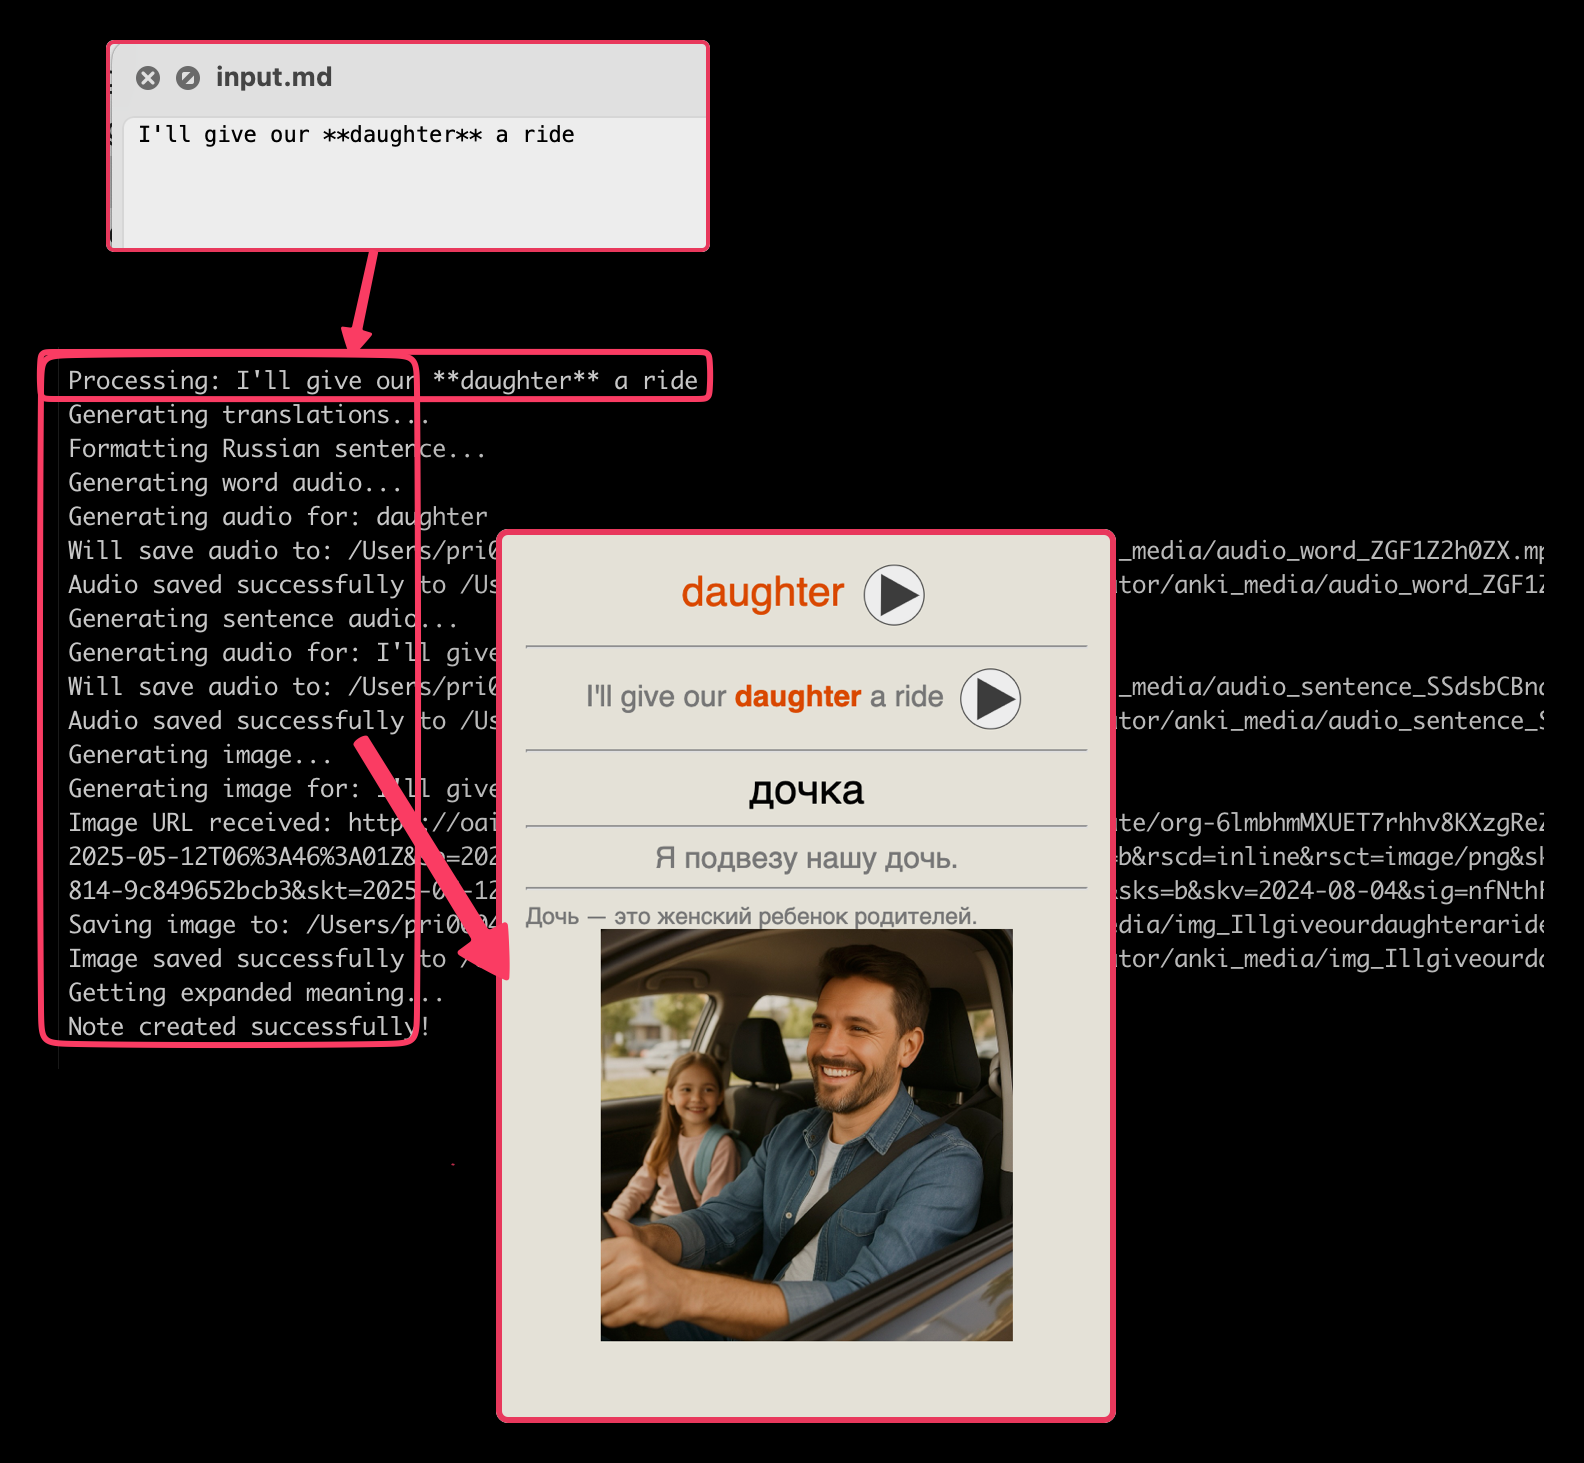
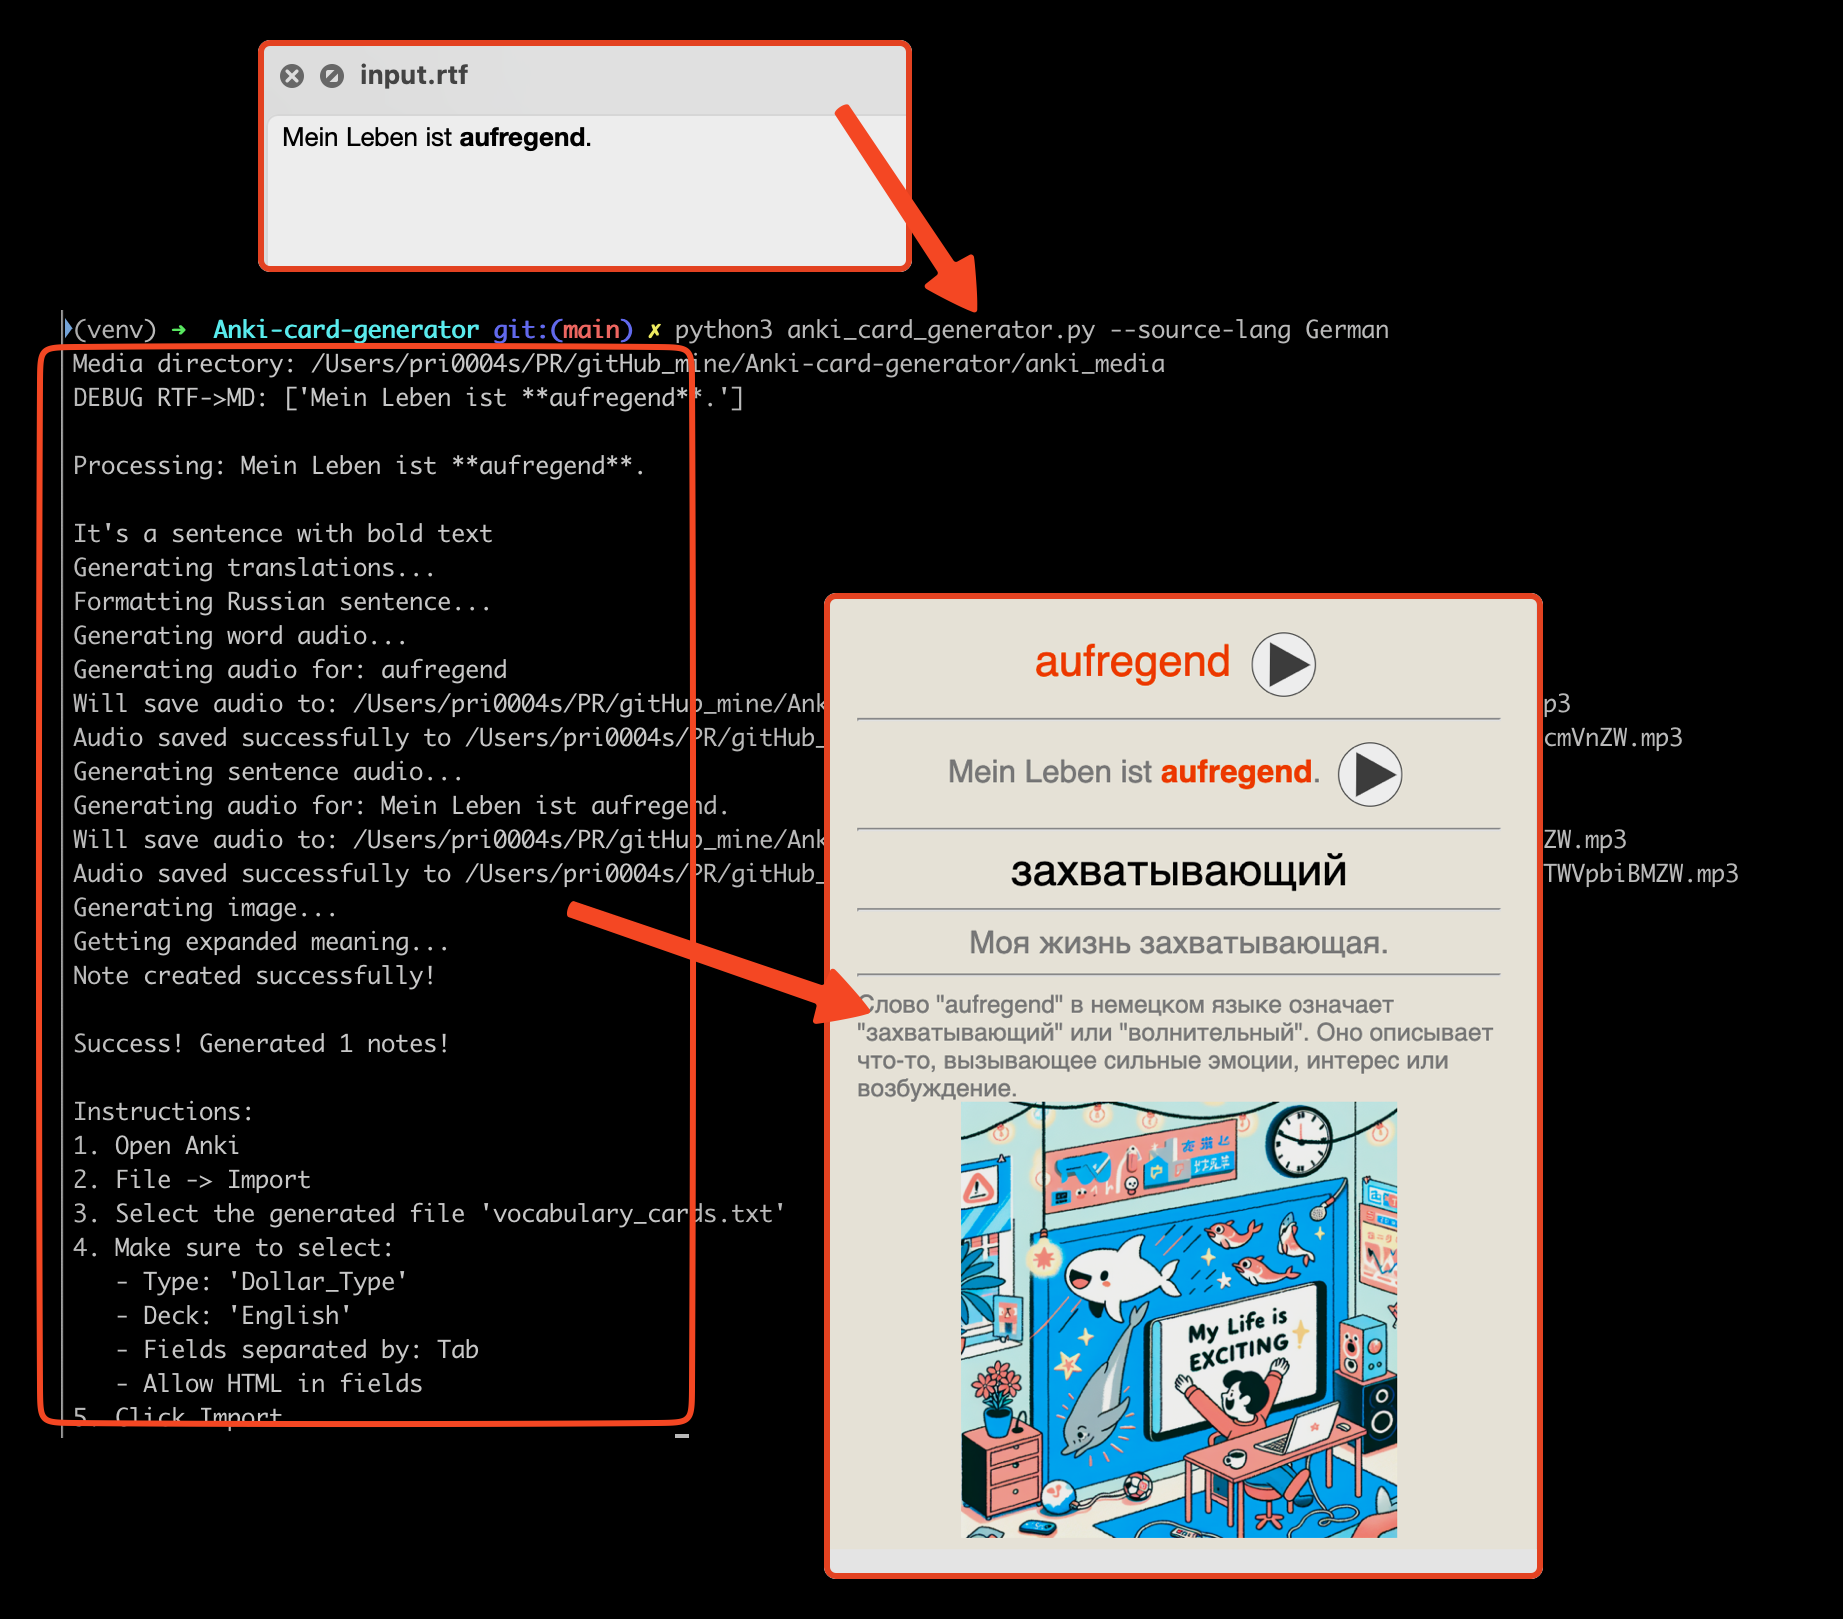
Enhance Anki Card Generator to support RTF input
1. Updated the README to reflect the capability of handling RTF input files, replacing markdown references with RTF.
2. Modified `anki_card_generator.py` to include functionality for extracting bold text from RTF files using pypandoc and BeautifulSoup, and adjusted the bold text pattern for parsing markdown and RTF.
3. Replaced italics with bold text in the script for processing highlighted words/phrases and translating them.
4. Migrated from `input.md` to `input.rtf` for input handling, removing the former and introducing a sample RTF content.
5. Updated `requirements.txt` to include new dependencies needed for RTF processing.

diff --git a/anki_card_generator.py b/anki_card_generator.py
@@ -7,6 +7,9 @@ import random
 import argparse
 from tqdm import tqdm  # For progress indication
 import requests
+from striprtf.striprtf import rtf_to_text  # Add RTF support
+import pypandoc
+from bs4 import BeautifulSoup
 
 class AnkiCardGenerator:
     def __init__(self, api_key, source_lang="English", target_lang="Russian"):
@@ -28,8 +31,9 @@ class AnkiCardGenerator:
         self.notes = []
         
     def extract_italic_text(self, line):
-        italic_pattern = r'\*(.*?)\*'
-        matches = re.findall(italic_pattern, line)
+        # Change pattern to look for bold text instead of italic
+        bold_pattern = r'\*\*(.*?)\*\*'
+        matches = re.findall(bold_pattern, line)
         return matches if matches else [line.strip()]
     
     def translate_text(self, text, is_sentence=False):
@@ -131,12 +135,12 @@ class AnkiCardGenerator:
     def process_line(self, line):
         print("\nProcessing:", line.strip())
         
-        italic_texts = self.extract_italic_text(line)
+        bold_texts = self.extract_italic_text(line)
 
-        # If it's just a single word/phrase in italic
-        if len(italic_texts) == 1 and italic_texts[0] == line.strip().replace('*', ''):
-            foreign = italic_texts[0]
-            russian = self.translate_text(foreign)
+        # If only one word/phrase is in bold
+        if len(bold_texts) == 1 and bold_texts[0] == line.strip().replace('**', ''):
+            foreign = bold_texts[0]
+            russian = self.translate_text(foreign)  # Translate only the highlighted word
             
             # Generate audio for foreign text
             print("Generating word audio...")
@@ -160,7 +164,7 @@ class AnkiCardGenerator:
                     foreign,                 # Foreign
                     "",                      # Foreign Sentence with highlighting
                     russian,                 # Russian
-                    "",                      # Russian Sentence with italic
+                    "",                      # Russian Sentence with bold
                     audio,                   # Audio
                     "",                      # Audio Sentence
                     expanded_meaning,        # Expanded Meaning
@@ -175,8 +179,8 @@ class AnkiCardGenerator:
             print("Note created successfully!")
             return
             
-        # If no italic text in the sentence
-        if not italic_texts:
+        # If there is no bold text in the sentence
+        if not bold_texts:
             foreign = line.strip()
             russian = self.translate_text(foreign, is_sentence=True)
             
@@ -196,7 +200,7 @@ class AnkiCardGenerator:
                     foreign,                 # Foreign
                     "",                      # Foreign Sentence with highlighting
                     russian,                 # Russian
-                    "",                      # Russian Sentence with italic
+                    "",                      # Russian Sentence with bold
                     audio,                   # Audio
                     "",                      # Audio Sentence
                     "",                      # Expanded Meaning
@@ -211,38 +215,41 @@ class AnkiCardGenerator:
             print("Note created successfully!")
             return
             
-        print("\nIt's a sentence with italic text")
+        print("\nIt's a sentence with bold text")
 
-        # Original logic for sentences with italic text
-        foreign = italic_texts[0] if italic_texts else line.strip()
+        # Original logic for sentences with bold text
+        foreign = bold_texts[0] if bold_texts else line.strip()
         
-        # Replace markdown with HTML matching the sample format
+        # Replace markdown with HTML for highlighting
         foreign_sentence = line.strip()
-        for italic_text in italic_texts:
+        for bold_text in bold_texts:
             foreign_sentence = foreign_sentence.replace(
-                f"*{italic_text}*",
-                f'<span style="color: rgb(234, 78, 0);"><b>{italic_text}</b></span>'
+                f"**{bold_text}**",
+                f'<span style="color: rgb(234, 78, 0);"><b>{bold_text}</b></span>'
             )
         
-        # Generate translations
+        # Translate only the highlighted word/phrase
         print("Generating translations...")
         russian = self.translate_text(foreign)
         
-        # Format Russian sentence with italic text for translations
+        # Translate the whole sentence
         print("Formatting Russian sentence...")
-        russian_sentence = self.translate_text(line.strip().replace('*', ''), is_sentence=True)
-        if italic_texts and russian:
-            russian_sentence = russian_sentence.replace(russian, f'<b>{russian}</b>')
+        russian_sentence_full = self.translate_text(line.strip().replace('**', ''), is_sentence=True)
+        # Highlight the translation of the bold word in the translated sentence
+        if russian and russian in russian_sentence_full:
+            russian_sentence = russian_sentence_full.replace(russian, f'<b>{russian}</b>')
+        else:
+            russian_sentence = russian_sentence_full
         
         # Generate audio files
         print("Generating word audio...")
         audio = self.generate_audio(foreign)
         print("Generating sentence audio...")
-        audio_sentence = self.generate_audio(line.strip().replace('*', ''), is_sentence=True)
+        audio_sentence = self.generate_audio(line.strip().replace('**', ''), is_sentence=True)
         
         # Generate image
         print("Generating image...")
-        image = self.generate_image(line.strip().replace('*', ''))
+        image = self.generate_image(line.strip().replace('**', ''))
         
         # Get expanded meaning
         print("Getting expanded meaning...")
@@ -257,8 +264,8 @@ class AnkiCardGenerator:
             'fields': [
                 foreign,                 # Foreign
                 foreign_sentence,        # Foreign Sentence with highlighting
-                russian,                 # Russian
-                russian_sentence,        # Russian Sentence with italic
+                russian,                 # Russian (only highlighted word)
+                russian_sentence,        # Russian Sentence (whole sentence, highlighted word in bold)
                 audio,                   # Audio
                 audio_sentence,          # Audio Sentence
                 expanded_meaning,        # Expanded Meaning
@@ -272,10 +279,39 @@ class AnkiCardGenerator:
         self.notes.append(note)
         print("Note created successfully!")
 
+    def extract_bold_from_rtf(self, rtf_content):
+        html = pypandoc.convert_text(rtf_content, 'html', format='rtf')
+        soup = BeautifulSoup(html, 'html.parser')
+        lines = []
+        for p in soup.find_all(['p', 'div']):
+            line = ''
+            for elem in p.children:
+                if getattr(elem, 'name', None) in ['b', 'strong']:
+                    line += f"**{elem.get_text()}**"
+                elif getattr(elem, 'name', None) == 'span' and elem.has_attr('style') and 'bold' in elem['style']:
+                    line += f"**{elem.get_text()}**"
+                elif elem.name is None:
+                    line += str(elem)
+            if line.strip():
+                lines.append(line.strip())
+        print("DEBUG RTF->MD:", lines)
+        return '\n'.join(lines)
+
     def generate_cards(self, input_file):
         # Process all lines
         with open(input_file, 'r', encoding='utf-8') as f:
-            for line in f:
+            content = f.read()
+            
+            # Check if file is RTF
+            if input_file.lower().endswith('.rtf'):
+                try:
+                    content = self.extract_bold_from_rtf(content)
+                except Exception as e:
+                    print(f"Error parsing RTF: {e}")
+                    content = ''
+            
+            # Split content into lines and process
+            for line in content.splitlines():
                 if line.strip():
                     self.process_line(line)
         
@@ -303,8 +339,8 @@ if __name__ == "__main__":
     parser.add_argument('--api-key', '-k', 
                       help='OpenAI API key (optional, can use OPENAI_API_KEY environment variable)')
     parser.add_argument('--input', '-i',
-                      default='input.md',
-                      help='Input file path (default: input.md)')
+                      default='input.rtf',
+                      help='Input file path (default: input.rtf). Supports .md and .rtf files')
     parser.add_argument('--generate-media', '-m',
                       action='store_true',
                       default=False,

diff --git a/README.md b/README.md
@@ -1,6 +1,6 @@
 # Anki Card Generator
 
-A script for automatically generating Anki cards from a markdown file with bold-highlighted words/phrases. Cards are added to your existing "English" deck using "Dollar_Type" note type.
+A script for automatically generating Anki cards from a rich-text or markdown file with bold-highlighted words/phrases. Cards are added to your existing "English" deck using "Dollar_Type" note type.
 
 ## Features
 
@@ -39,7 +39,7 @@ Each card contains the following fields:
   source venv/bin/activate
   
   # Install required packages
-  python3 -m pip install openai requests tqdm
+  pip3 install -r requirements.txt
 ```
 
 ## Installation
@@ -56,23 +56,41 @@ cd Anki-card-generator
 
 ## Usage
 
-1. Create an `input.md` file with sentences where target words are in bold:
+1. Create an `input.rtf` file with sentences where target words are in bold:
 ```markdown
-I'll give our **daughter** a ride
-She was **kind** and polite
+Mein Leben ist **aufregend**.
 ```
 
 2. Run the script:
 ```bash
+# With Default arguments:
+python3 anki_card_generator.py
+
+# With custom source languages:
+python3 anki_card_generator.py --source-lang German --input input.rtf
+
 # If OPENAI_API_KEY is set in environment:
-python3 anki_card_generator.py --input input.md
+python3 anki_card_generator.py --input input.rtf
 
 # With images generation:
-python3 anki_card_generator.py --input input.md --generate-media
+python3 anki_card_generator.py --input input.rtf --generate-media
 
 # Or with explicit API key:
-python3 anki_card_generator.py --api-key 'your-api-key-here' --input input.md
+python3 anki_card_generator.py --api-key 'your-api-key-here' --input input.rtf
 ```
+
+### Rich Text Format (.rtf)
+- Use italic formatting for words to learn
+- Can be created using any text editor that supports RTF
+- Supports both single words and sentences with highlighted words
+
+## Command Line Arguments
+
+- `--input`, `-i`: Input file path (default: input.rtf)
+- `--api-key`, `-k`: OpenAI API key (optional, can use OPENAI_API_KEY environment variable)
+- `--generate-media`, `-m`: Generate images (default: False)
+- `--source-lang`, `-s`: Source language (default: English)
+- `--target-lang`, `-t`: Target language (default: Russian)
 
 3. Import the generated cards:
    - Open Anki
@@ -91,7 +109,7 @@ python3 anki_card_generator.py --api-key 'your-api-key-here' --input input.md
 ## Project Structure
 
 - `anki_card_generator.py` - main script
-- `input.md` - input file with sentences
+- `input.rtf` - input file with sentences
 - `anki_media/` - folder for media files (images and audio)
 - `vocabulary_cards.txt` - generated import file
 
